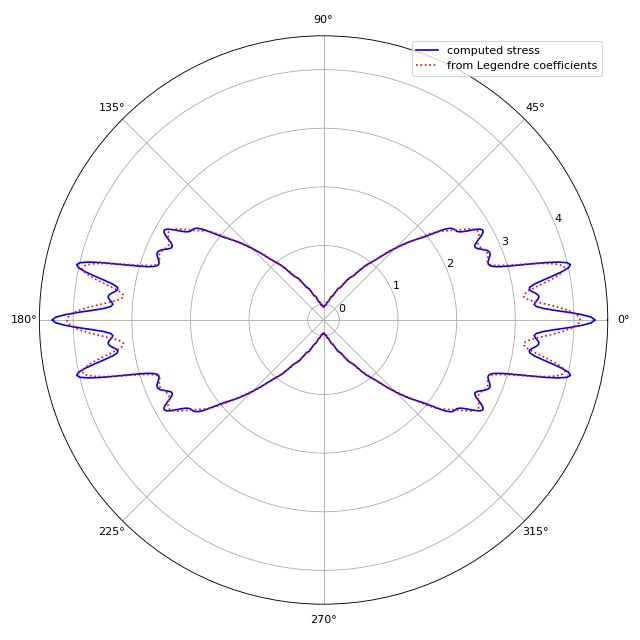
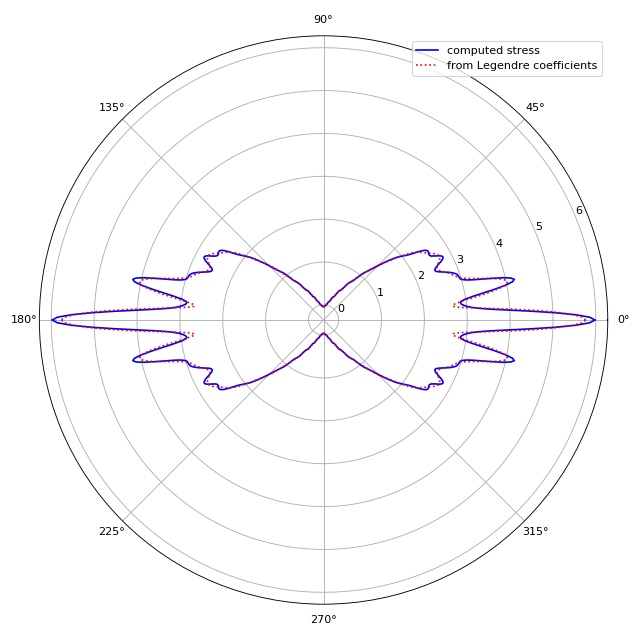
fix: boundary function mistake (close #1)

diff --git a/ggf/stress/boyde2009/core.py b/ggf/stress/boyde2009/core.py
@@ -51,8 +51,6 @@ def boundary(costheta, a=1, epsilon=.1, nu=0):
     x = costheta
     B = a*(1+epsilon) \
         / ((1+epsilon)**2 - epsilon*(1+nu)*(2+epsilon*(1-nu))*x**2)**.5
-    B *= (1-nu*epsilon)
-
     return B
 
 
@@ -69,11 +67,14 @@ def get_hgc():
 
 
 def stress(object_index=1.41, medium_index=1.3465, poisson_ratio=0.45,
-           radius=2.8466e-6, stretch_ratio=0.1, wavelength=780e-9,
+           semi_minor=2.8466e-6, stretch_ratio=0.1, wavelength=780e-9,
            beam_waist=3, power_left=.6, power_right=.6, dist=100e-6,
            n_points=100, theta_max=np.pi, field_approx="davis",
            ret_legendre_decomp=False, verbose=False):
     """Compute the stress acting on a prolate spheroid
+
+    The prolate spheroid has semi-major axis :math:`a` and
+    semi-minor axis :math:`b=c`.
 
     Parameters
     ----------
@@ -83,10 +84,11 @@ def stress(object_index=1.41, medium_index=1.3465, poisson_ratio=0.45,
         Refractive index of the surrounding medium
     poisson_ratio: float
         Poisson's ratio of the spheroid material
-    radius: float
-        TODO
+    semi_minor: float
+        Semi-minor axis (inner) radius of the stretched object
+        :math:`b=c`.
     stretch_ratio: float
-        TODO
+        Measure of the deformation, defined as :math:`(a - b) / b`
     wavelength: float
         Wavelenth of the gaussian beam [m]
     beam_waist: float
@@ -137,7 +139,7 @@ def stress(object_index=1.41, medium_index=1.3465, poisson_ratio=0.45,
     #WZ  = W0*(1+(beam_pos+d)**2/ZRL**2)**0.5   # beam waist at specified position [m]
     
     K0 = 2*np.pi/wavelength         # wave vector [m]
-    Alpha = radius*K0                # size parameter  
+    Alpha = semi_minor*K0                # size parameter  
     C = 3e8                 # speed of light [m/s]
 
 
@@ -168,7 +170,7 @@ def stress(object_index=1.41, medium_index=1.3465, poisson_ratio=0.45,
 
     # dimensionless parameters
     k0  = 1                    # wave vector
-    a   = radius * K0               # internal radius of stretched cell
+    a   = semi_minor * K0               # internal radius of stretched cell
     d   = dist * K0               # distance from cell centre to optical stretcher
     #ap = a*(1+stretch_ratio)             # semi-major axis (after stretching)
     #bp = a*(1-poisson_ratio*stretch_ratio)          # semi-minor axis (after stretching) 

diff --git a/tests/test_boyde2009_stress.py b/tests/test_boyde2009_stress.py
@@ -6,7 +6,10 @@ from ggf.stress.boyde2009 import core
 
 
 def test_basic():
-    # reference data created with Boyde's Matlab script using default parameters
+    # Originally, the reference data ere created with Boyde's Matlab
+    # script using default parameters. Due to a mistake in the boundary
+    # function (issue #1), the reference data were recreated with the
+    # Python ggf package.
     rpath = pathlib.Path(__file__).resolve().parent / "data"
     th_ref, sigmarr_ref = np.loadtxt(str(rpath / "stress_default.dat"))
     coeff_ref = np.loadtxt(str(rpath / "coeff_default.dat"))
@@ -17,7 +20,10 @@ def test_basic():
 
 
 def test_basic_barton():
-    # reference data created with Boyde's Matlab script using default parameters
+    # Originally, the reference data ere created with Boyde's Matlab
+    # script using default parameters. Due to a mistake in the boundary
+    # function (issue #1), the reference data were recreated with the
+    # Python ggf package.
     rpath = pathlib.Path(__file__).resolve().parent / "data"
     th_ref, sigmarr_ref = np.loadtxt(str(rpath / "stress_default_barton.dat"))
     coeff_ref = np.loadtxt(str(rpath / "coeff_default_barton.dat"))
@@ -36,7 +42,7 @@ def test_droplet():
     # We take the average of the two to compute the stress.
     # This is wrong.
     radius = (semi_major + semi_minor) / 2
-    th, sigmarr, coeff = core.stress(radius=radius,
+    th, sigmarr, coeff = core.stress(semi_minor=radius,
                                      object_index=1.41,
                                      medium_index=1.3465,
                                      ret_legendre_decomp=True)
@@ -44,13 +50,14 @@ def test_droplet():
 
 
 def test_barton_davis_difference():
-    th1, sigmarr1 = core.stress(radius=1e-6, field_approx="davis")
-    th2, sigmarr2 = core.stress(radius=1e-6, field_approx="barton")
+    th1, sigmarr1 = core.stress(semi_minor=1e-6, field_approx="davis")
+    th2, sigmarr2 = core.stress(semi_minor=1e-6, field_approx="barton")
     assert np.allclose(sigmarr1, sigmarr2, rtol=0, atol=3e-4)
 
 
 
 if __name__ == "__main__":
+    test_droplet()
     # Run all tests
     loc = locals()
     for key in list(loc.keys()):

diff --git a/examples/stress_decomposition.py b/examples/stress_decomposition.py
@@ -6,6 +6,11 @@ polynomials :math:`P_n(\text{cos}(\theta))`. This example visualizes
 the small differences between the original stress and the stress
 computed from the Legendre coefficients. This plot is automatically
 produced by the original Matlab script *StretcherNStress.m*.
+
+Note that the original Matlab yields different results for the
+same set of parameters, because the Poisson's ratio (keyword
+argument ``poisson_ratio``) is non-zero;
+see `issue #1 <https://github.com/GuckLab/ggf/issues/1>`__.
 """
 import matplotlib.pylab as plt
 import numpy as np
@@ -23,7 +28,7 @@ def compute(**kwargs):
 
 # compute default stress
 theta, sigmarr, coeff = compute(ret_legendre_decomp=True,
-                                numpoints=300)
+                                n_points=300)
 
 # compute stress from coefficients
 numpoints = theta.size

diff --git a/examples/boundary.py b/examples/boundary.py
@@ -4,11 +4,16 @@ This example illustrates how the parameters Poisson's ratio
 :math:`\nu` and stretch ratio :math:`\epsilon` influence
 the object boundary used in :func:`ggf.core.stress` and
 defined in :func:`ggf.core.boundary`.
+
+Note that the boundary function was not defined correctly prior to
+version 0.3.0 (`issue #1 <https://github.com/GuckLab/ggf/issues/1>`__).
+Since version 0.3.0, the semi-minor axis is equivalent to the
+keyword argument `a` (1 by default).
 """
 import numpy as np
 import matplotlib.pylab as plt
 
-from ggf.stress.boyde2009 import boundary
+from ggf.stress.boyde2009.core import boundary
 
 theta = np.linspace(0, 2*np.pi, 300)
 costheta = np.cos(theta)

diff --git a/tests/test_boyde2009_wrapper.py b/tests/test_boyde2009_wrapper.py
@@ -1,7 +1,6 @@
 import pathlib
 
 import numpy as np
-import pytest
 
 import ggf
 from ggf.stress import boyde2009
@@ -26,7 +25,7 @@ def test_basic():
     n_points = 10
 
     th1, sg1 = boyde2009.core.stress(
-        radius=radius,
+        semi_minor=radius,
         stretch_ratio=stretch_ratio,
         poisson_ratio=poisson_ratio,
         object_index=object_index,
@@ -54,7 +53,6 @@ def test_basic():
     assert np.allclose(sg1, sg2)
 
 
-@pytest.mark.xfail
 def test_boundary():
     """Geometry should not depend on Poisson's ratio"""
     radius = 2.8466e-6

diff --git a/ggf/stress/boyde2009/__init__.py b/ggf/stress/boyde2009/__init__.py
@@ -13,7 +13,7 @@ def get_stress(semi_major, semi_minor, object_index, medium_index,
         object_index=object_index,
         medium_index=medium_index,
         poisson_ratio=0,
-        radius=semi_minor,
+        semi_minor=semi_minor,
         stretch_ratio=(semi_major - semi_minor) / (semi_minor),
         wavelength=wavelength,
         beam_waist=mode_field_diameter/2/wavelength,

diff --git a/examples/ggf_reproduced.py b/examples/ggf_reproduced.py
@@ -44,7 +44,7 @@ dist2 = distance_capillary(gel_dist=0,
 kwargs = {"object_index": 1.37108,
           "medium_index": medium_index,
           "poisson_ratio": 0,
-          "radius": 7.51e-6,
+          "semi_minor": 7.51e-6,
           "stretch_ratio": .041,
           "wavelength": 1064e-9,
           "power_left": 1.5,

diff --git a/examples/stress_reproduced.py b/examples/stress_reproduced.py
@@ -27,7 +27,7 @@ kwargs = {"stretch_ratio": .1,
           "medium_index": 1.335,
           "wavelength": wavelength,
           "beam_waist": 3,
-          "radius": radius,
+          "semi_minor": radius,
           "power_left": 1,
           "power_right": 1,
           "poisson_ratio": 0,

diff --git a/tests/test_core.py b/tests/test_core.py
@@ -13,7 +13,7 @@ def test_basic():
     ggf1 = legendre2ggf(coeff1, poisson_ratio=.45)
     ggf2 = legendre2ggf(coeff2, poisson_ratio=.45)
 
-    assert np.allclose(ggf1, 0.75019897326485)
+    assert np.allclose(ggf1, 0.7100497580269144)
     assert np.allclose(ggf2, 0.752157535649718)
 
 

diff --git a/docs/sec_introduction.rst b/docs/sec_introduction.rst
@@ -51,14 +51,20 @@ How should I migrate my Matlab pipeline to Python?
 To reproduce data
 .................
 You can access the computations performed in *StretcherNStress.m* via
-:func:`ggf.core.stress.boyde2009`.
+:func:`ggf.stress.boyde2009.core.stress`.
 
+.. warning:: There was a mistake in the original boundary function (see
+    `issue #1 <https://github.com/GuckLab/ggf/issues/1>`__). This affects
+    all cases where ``poisson_ratio`` is non-zero. If you would like
+    to reproduce exactly the stress profiles of *StretcherNStress.m*,
+    please use ggf version 0.2.0.
+    
 .. code::
 
-    from ggf.stress.boyde2009 import stress
+    from ggf.stress.boyde2009.core import stress
     theta, sigma, coeff = stress(object_index=1.41,
                                  medium_index=1.3465,
-                                 radius=2.8466e-6,       # [m]
+                                 semi_minor=2.8466e-6,   # [m]
                                  poisson_ratio=0.45,
                                  stretch_ratio=0.1,
                                  wavelength=780e-9,      # [m]
@@ -70,7 +76,7 @@ You can access the computations performed in *StretcherNStress.m* via
                                  ret_legendre_decomp=True)
 
 The GGF can be computed from the coefficients ``coeff`` via
-:func:`ggf.globgeomfact.coeff2ggf`.
+:func:`ggf.legendre2ggf`.
 
 .. code::
 
@@ -86,12 +92,11 @@ In general, the method :func:`ggf.get_ggf` is recommended. The difference
 to the above method is:
 
 - It makes use of precomputed look-up tables (LUTs) which avoids long
-  computation times. The error made by using LUTs is below :math:`10^{-5}` Pa.
+  computation times. The error made by using LUTs maxes at about 1-2%.
 - It comes with user-convenient keyword arguments.
 - The GGF is computed from 120 Legendre coefficients by default, a number
   that was previously determined automatically and could have potentially
   been too low.
-- TODO: Poisson's ratio ambiguity
 
 Please note that due to these points, the resulting GGF might
 vary from the GGF computed with the original Matlab script.
@@ -109,4 +114,3 @@ vary from the GGF computed with the original Matlab script.
                       power_per_fiber=.65,              # [W]
                       wavelength=780e-9,                # [m]
                       poisson_ratio=0.45)
-
